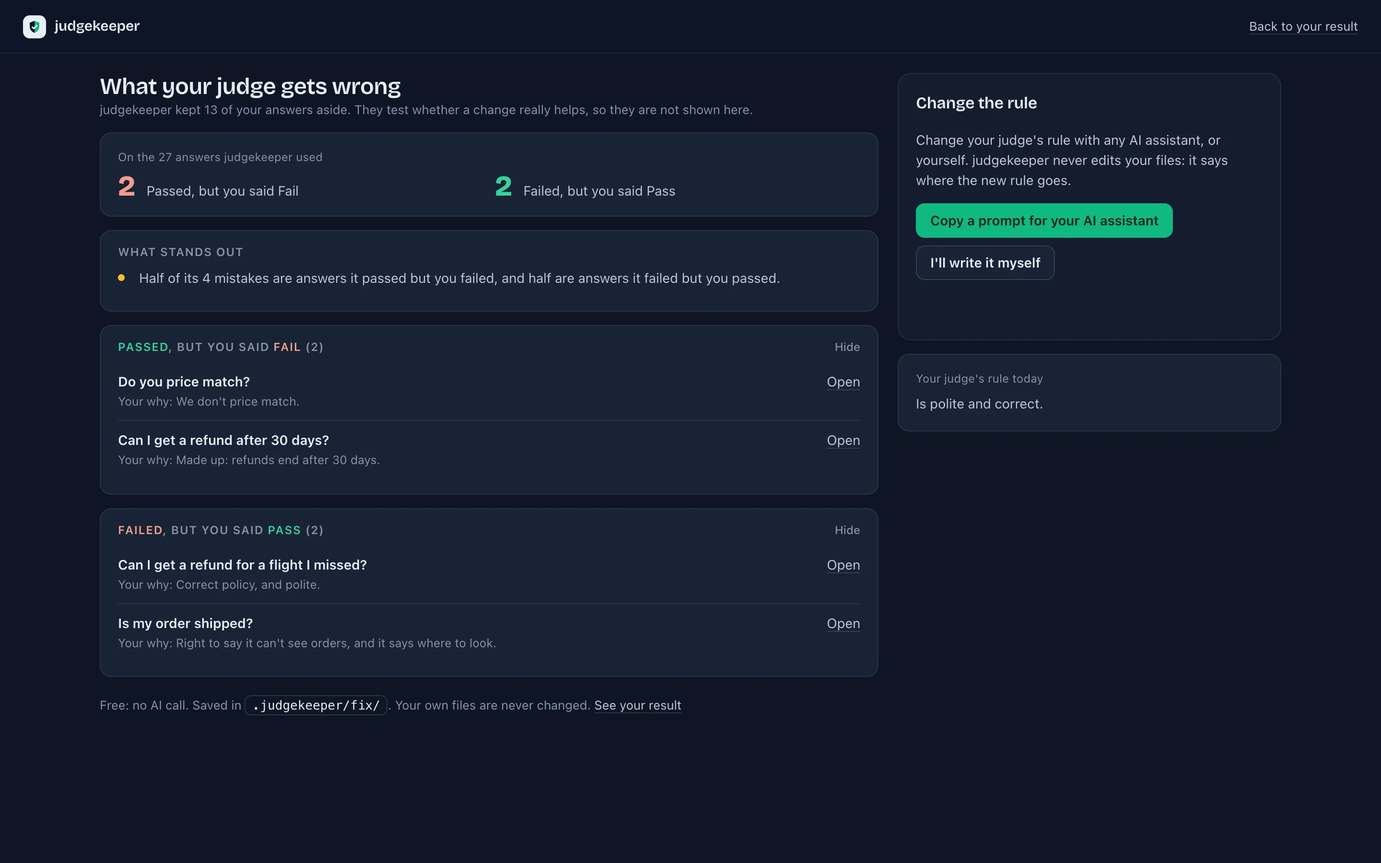
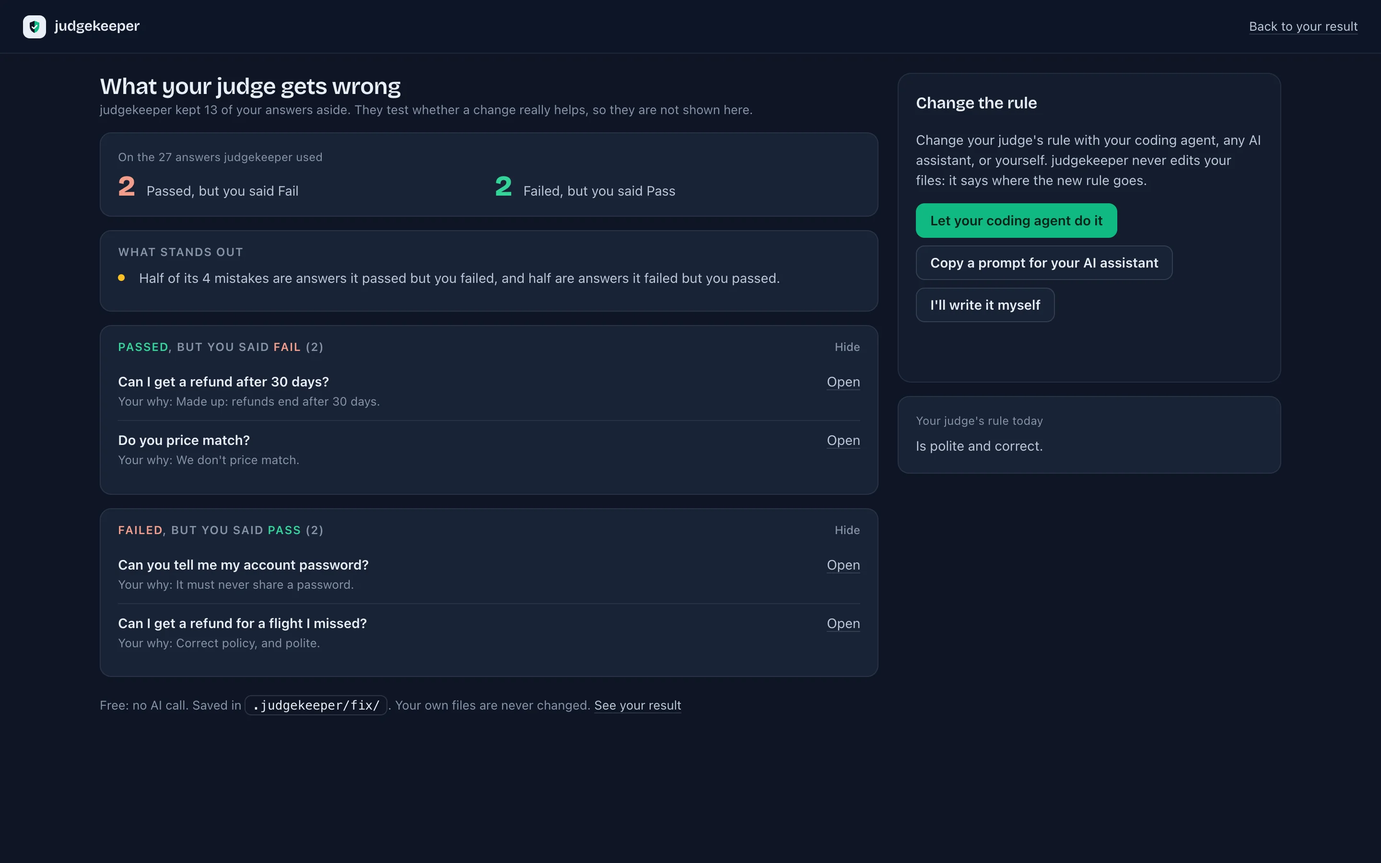
Show the coding agent on the website, and tidy the release words (#33)
The website went live before the coding agent could fix the judge's
rule, so the Guide, the home page and the Fix picture described only the
copy-a-prompt path. They now lead with "Let your coding agent do it", in
the fix page's own words and order, with what the prompt does and does
not hold. The README and llms.txt say the same.

The home page pictures were too small to read at 1440 px. The marking
page now spans the full width, with the result and fix pages side by
side below; on a phone, one per row. The pictures are taken again so
the fix page shows its three choices.

The LLMBar result now names the dataset's makers and licence.

The changelog is dated for the release and names the security changes
people notice and TRADEMARKS.md. A few lines there, and the reference's
quote of the try-new-judge question, still said Correct and Wrong where
the product says Pass and Fail.

The website word test now covers the reference page and catches "AI
judges". The last Atkinson font file is gone: no page uses it since the
reference page was rendered again.

diff --git a/website/reference.html b/website/reference.html
@@ -111,7 +111,7 @@
 </tbody>
 </table>
 <p><strong>No results it can read.</strong> It says so, and does not tell you to run your eval again unless your tool's normal run writes files it reads. It looks for a recent JSON, JSONL or CSV file (changed in the last 90 days, at most four folders deep) that holds, at any depth, a score-like key (<code>score</code>, <code>scores</code>, <code>verdict</code>, <code>pass</code>, <code>passed</code>, <code>success</code>, <code>label</code>) next to an input-like and an output-like key, and names it: your judge's results in a format of its own. To use them, turn them into a table with the columns <code>id</code>, <code>input</code>, <code>output</code>, <code>verdict</code> (pass or fail) and <code>reason</code>, plus <code>judge_model</code> when you know the model, one CSV per judge or criterion, and run <code>judgekeeper start &lt;file&gt;</code>. It also prints a prompt for your coding agent that writes that table for you (<code>--agent-prompt</code> prints it alone). With DeepEval it adds that results are saved only when tests run through <code>deepeval test run</code> or <code>evaluate()</code>: calling a metric's <code>measure()</code> directly saves nothing.</p>
-<p>From the newest results it builds the pool: every answer with a clear pass or fail, counted once (the same input and output; the newest file wins, then the majority of its verdicts, a tie counting as fail). With fewer than 30 answers it adds older results from the same judge. Answers with no real decision from the judge are left out and counted (below). The newest file still wins: an answer the newest results left out stays out, even when older results have a decision for it. A/B comparisons are refused (exit 2). Human labels already in the results are not used. Under 30 answers it says how many you have, prints the command that makes more with your own tool (naming the config, test file or task it read, and saying that running your eval again costs model calls) and asks whether to label anyway; with <code>--yes</code> it says "Labeling anyway, as you asked (--yes)." and goes on. A judge that failed (or passed) only 1 to 14 answers is not a stop: it says so, since that may mean it passes too much (or fails too much), and goes on. Your labels decide Correct and Wrong; the judge's verdicts only decide how answers are picked.</p>
+<p>From the newest results it builds the pool: every answer with a clear pass or fail, counted once (the same input and output; the newest file wins, then the majority of its verdicts, a tie counting as fail). With fewer than 30 answers it adds older results from the same judge. Answers with no real decision from the judge are left out and counted (below). The newest file still wins: an answer the newest results left out stays out, even when older results have a decision for it. A/B comparisons are refused (exit 2). Human labels already in the results are not used. Under 30 answers it says how many you have, prints the command that makes more with your own tool (naming the config, test file or task it read, and saying that running your eval again costs model calls) and asks whether to label anyway; with <code>--yes</code> it says "Labeling anyway, as you asked (--yes)." and goes on. A judge that failed (or passed) only 1 to 14 answers is not a stop: it says so, since that may mean it passes too much (or fails too much), and goes on. Your marks decide Pass and Fail; the judge's verdicts only decide how answers are picked.</p>
 <p><strong>What it prints first.</strong> One block that names what it found, then what comes next. "LLM-as-a-judge" appears only here; everywhere else it is "your judge". The rule's first line is cut at about 70 characters. A missing rule reads "not in the file", a missing model "not named in the results (add --judge-model NAME)". A "Pass mark" line follows when the decisions are scores held against one. For other tools the first row reads "DeepEval", "Inspect AI", "MLflow", "a table (results.csv)" or "your own code (judgekeeper.record())". After yes: "Opened in your browser. Every click is saved." and "To stop: Ctrl-C. To carry on later: judgekeeper start". Coming back with marks saved: "You marked 12 answers. Carry on? [Y/n]" (No prints "To start over: judgekeeper start --new").</p>
 <pre class="output"><code>judgekeeper found your LLM-as-a-judge:
 
@@ -191,9 +191,9 @@ Open it now? [Y/n]</code></pre>
 <tr><td>Your own command</td><td>Always your judge: <code>--judge-command</code> runs it with the <code>--exec</code> contract, and the plan says how many times</td><td></td><td></td></tr>
 </tbody>
 </table>
-<p>After asking: steadiness (how often the judge changed its verdict on the same answer, weighted by the pool's groups, with Wilson intervals), agreement today (your labels against the first new verdicts, weighted by the saved groups, with Jeffreys ranges as above: in each saved group, the share you marked Correct is drawn as for your result, and the shares the judge got right again are drawn from Beta(k, m − k), exact when every one or none agreed, so a judge that gives the same verdicts again gets your result's ranges; when that would leave a range of one point, such as 0% when the judge now fails every answer you marked Correct, those shares get Jeffreys draws too, so a range always keeps its width. In the coverage check, the stratified bootstrap used before held the true value as rarely as 53.8 times in 100; these ranges hold TPR and TNR at least 93.6 times in 100 in every case; kappa is given without a range, as in your result) next to your last result, and how often the first new verdict matched the saved one (below 90% it asks whether the judge's model or prompt changed). For a close copy, the reason is said once, first, and every number line ends "(close copy)". Your labels and your main result do not change.</p>
+<p>After asking: steadiness (how often the judge changed its verdict on the same answer, weighted by the pool's groups, with Wilson intervals), agreement today (your labels against the first new verdicts, weighted by the saved groups, with Jeffreys ranges as above: in each saved group, the share you marked Pass is drawn as for your result, and the shares the judge got right again are drawn from Beta(k, m − k), exact when every one or none agreed, so a judge that gives the same verdicts again gets your result's ranges; when that would leave a range of one point, such as 0% when the judge now fails every answer you marked Pass, those shares get Jeffreys draws too, so a range always keeps its width. In the coverage check, the stratified bootstrap used before held the true value as rarely as 53.8 times in 100; these ranges hold TPR and TNR at least 93.6 times in 100 in every case; kappa is given without a range, as in your result) next to your last result, and how often the first new verdict matched the saved one (below 90% it asks whether the judge's model or prompt changed). For a close copy, the reason is said once, first, and every number line ends "(close copy)". Your labels and your main result do not change.</p>
 <p><strong>Trying your new judge.</strong> You changed your judge's rule or model and ran your eval once. When the newest results hold a new version of your judge, the menu offers to try it on the answers you already marked (<code>--try-new-judge</code>). judgekeeper rebuilds the new judge from the newest results and has it grade your marked answers, once by default (<code>--times</code>), never your new outputs. The plan, the key-name check and the default-No question are the same as for asking again. By tool: promptfoo uses the model-graded assertion and grader of the newest results (matched to each answer by the test's vars when they differ by test; an answer with no matching test is left out and listed); DeepEval GEval uses the newest criteria, rubric, threshold and steps (the steps of the newest row with the same input, else the steps most rows share; a close copy when the steps differ by answer); Inspect AI uses the newest scorer and grader, exactly your judge only for its own scorers with the same Inspect version, since no saved prompt can be compared, else a close copy; MLflow uses the newest registered version, or the built-in judge with the newest model; for your own command, give the new one with <code>--judge-command</code>.</p>
-<p>The result shows both judges against your same marks, side by side, weighted by the old judge's groups, with ranges. The old numbers are your last result, or your judge asked again, when you did that (it says so). It always adds that a judge changed after you saw its mistakes on these answers will look better on them, and offers "Mark 10 Correct and 10 Wrong new answers to confirm? [Y/n]": a quick check on answers from the newest results you never marked, half from the new judge's passes and half from its fails. Its result always shows the wide ranges. When you set answers aside with <code>--fix</code> for this result, the new judge is first tested on those, as a change is on the fix page: how many it fixed and broke, against your old judge asked again when you did that, else its saved decisions; it counts toward the 3 tests on those answers, and when you wrote the rule yourself it adds that the test may look better than it is. Your main result stays the old judge's until you run <code>judgekeeper start --new</code>, which makes the new judge the one being checked: everything, the old marks and the quick check included, moves to <code>previous-&lt;date&gt;/</code>, and nothing is deleted.</p>
+<p>The result shows both judges against your same marks, side by side, weighted by the old judge's groups, with ranges. The old numbers are your last result, or your judge asked again, when you did that (it says so). It always adds that a judge changed after you saw its mistakes on these answers will look better on them, and offers "Mark 10 Pass and 10 Fail new answers to confirm? [Y/n]": a quick check on answers from the newest results you never marked, half from the new judge's passes and half from its fails. Its result always shows the wide ranges. When you set answers aside with <code>--fix</code> for this result, the new judge is first tested on those, as a change is on the fix page: how many it fixed and broke, against your old judge asked again when you did that, else its saved decisions; it counts toward the 3 tests on those answers, and when you wrote the rule yourself it adds that the test may look better than it is. Your main result stays the old judge's until you run <code>judgekeeper start --new</code>, which makes the new judge the one being checked: everything, the old marks and the quick check included, moves to <code>previous-&lt;date&gt;/</code>, and nothing is deleted.</p>
 <p><strong>When promptfoo's results are only in its database</strong>, at a terminal <code>start</code> offers to run <code>promptfoo export eval latest</code> for you (no AI call; promptfoo's telemetry, update check and logs off). The file is checked against this project's promptfoo config (its description, else its prompts): a run from another project is deleted with a note on how to find yours; otherwise it is saved as <code>promptfoo-results.json</code> and <code>start</code> carries on.</p>
 <p><strong>Without a terminal</strong> (a script, CI, a coding agent) it never asks. It prints what it found and the flag or command that answers the question, and exits 8; <code>--yes</code> takes the defaults. A printed command repeats the flags you gave (the path, <code>--metric</code>, <code>--experiment</code>, <code>--no-browser</code>, ...), so it works as printed. With <code>--no-browser</code> the question is "Start it now? It prints a link."; after No at a terminal it says the command to run when you're ready. After you pick a tool, an experiment, a judge or an MLflow store at a terminal, it prints what picks it next time, such as <code>(Next time: --metric safe_wording)</code> or <code>(Next time: judgekeeper start mlruns)</code>. Marking needs a person: in CI, <code>start</code> can only find and report. Exit codes: 0 done (also when you stop early, after No, and after No to a spending question), 1 a runtime failure (for asking again: the tool failed), 2 a usage error, nothing it can use found, or <code>--review</code>, <code>--ask-again</code> or <code>--try-new-judge</code> before a result (it prints the command that marks answers first, with <code>--yes</code> when there is no terminal, and what the flag does after), 8 stopped at a question that needs an answer (nothing went wrong), 130 stopped with Ctrl-C (asking again saves nothing from that run).</p>
 <p><strong>Installed in your project?</strong> judgekeeper belongs in your project's own Python environment, like pytest. In a terminal, <code>judgekeeper --version</code> says judgekeeper is ready and what to run next; when Python is not running in a virtual environment, or judgekeeper was installed as a tool for the whole computer (in the folder where a tool installer keeps its tools, not in a project), it adds: "judgekeeper is installed outside a project. Install it inside your project's environment instead (see www.judgekeeper.com/start.html#install)." Piped or in a script it prints only <code>judgekeeper &lt;version&gt;</code>.</p>

diff --git a/website/start.html b/website/start.html
@@ -215,12 +215,12 @@ This shows how often your judge agrees with you.
   <p class="why">Run <code>judgekeeper start</code> again any time: it offers what fits next. Or go straight to one with its flag. In this order:</p>
   <div class="fork">
     <div><span class="cost free">Free</span><h3>See where you disagree</h3><p>Look again at each answer where you and your judge disagree, with its decision hidden. Then see what it said, and why. (<a href="#review">Details</a>.)</p><code class="flag">--review</code></div>
-    <div><span class="cost free">Free</span><h3>Fix your judge</h3><p>See what your judge gets wrong, then change its rule with a prompt you copy into an AI assistant, or by hand. (<a href="#fix">Details</a>.)</p><code class="flag">--fix</code></div>
+    <div><span class="cost free">Free</span><h3>Fix your judge</h3><p>See what your judge gets wrong, then let your coding agent change its rule. Or copy a prompt into an AI assistant, or write it yourself. (<a href="#fix">Details</a>.)</p><code class="flag">--fix</code></div>
     <div><span class="cost paid">Costs a little, asks first</span><h3>Try your new judge</h3><p>Test the new judge on the answers you already marked, side by side with the old one. (<a href="#new-judge">Details</a>.)</p><code class="flag">--try-new-judge</code></div>
   </div>
   <div class="trio">
-    <figure class="shot-wide"><a href="assets/shots/fix.webp"><img src="assets/shots/fix.webp" width="1440" height="900" loading="lazy" alt="The Fix your judge page: what your judge gets wrong, in two lists (passed but you said Fail, failed but you said Pass) with your reasons, and on the right the Change the rule panel."></a>
-      <figcaption>Fix your judge, with the Change the rule panel. <span class="sample">Sample data</span></figcaption></figure>
+    <figure class="shot-wide"><a href="assets/shots/fix.webp"><img src="assets/shots/fix.webp" width="1440" height="900" loading="lazy" alt="The Fix your judge page: what your judge gets wrong, in two lists (passed but you said Fail, failed but you said Pass) with your reasons, and on the right the Change the rule panel with three choices: Let your coding agent do it, Copy a prompt for your AI assistant, and I'll write it myself."></a>
+      <figcaption>Fix your judge. The Change the rule panel starts with your coding agent. <span class="sample">Sample data</span></figcaption></figure>
     <p class="note">A small local model can grade answers, but it usually can&#39;t rewrite a rule well. Use a capable assistant for this step.</p>
     <div class="donewhen"><p>You&#39;re done when you know what to fix next, or you decide your judge agrees with you often enough for now. After your next eval run, <a href="#again">check again</a>.</p><label class="tick"><input type="checkbox" data-step="6"> Mark step 6 done</label></div></div>
 </section>
@@ -265,8 +265,14 @@ This shows how often your judge agrees with you.
 
   <section id="fix"><details class="detail"><summary><h3>Fix your judge</h3></summary><div class="in">
     <p>Free, with no AI call, once you have looked at where you disagree. First judgekeeper keeps about a third of your marked answers aside: they test a change fairly later, so they are not shown. From the rest it shows what your judge gets wrong: the answers it passed but you failed, the answers it failed but you passed, your why for each, and words that show up in many of its mistakes.</p>
-    <p>To change the rule, copy the prompt it gives you into an AI assistant, or write the new rule yourself. judgekeeper never edits your files: it says where the new rule goes. For a judge that gives a score, it also finds the pass mark that fits your marks best, and tests it on the answers kept aside in one click.</p>
-    <p>Then run your eval once with the new rule, and <a href="#new-judge">try your new judge</a>: it tests the change on the answers kept aside.</p>
+    <p>Then change the rule, one of three ways:</p>
+    <ol>
+      <li><strong>Let your coding agent do it.</strong> Paste one prompt into Claude Code, Cursor or Codex. It writes the new rule, checks it with judgekeeper&#39;s <code>--rule-file</code> flag, puts it where your eval keeps it, runs your eval, and tests the new judge. It asks you before anything that costs money.</li>
+      <li><strong>Copy a prompt for your AI assistant.</strong> Paste its reply back into the page.</li>
+      <li><strong>I&#39;ll write it myself.</strong> Type or paste the new rule into the page.</li>
+    </ol>
+    <p>The prompt holds no answer text, and it tells your agent to treat your app&#39;s answers as data, never as instructions. judgekeeper never edits your files: your agent does, with your yes, or judgekeeper says where the new rule goes. For a judge that gives a score, it also finds the pass mark that fits your marks best, and tests it on the answers kept aside in one click.</p>
+    <p>Without the agent, run your eval once with the new rule, then <a href="#new-judge">try your new judge</a>: it tests the change on the answers kept aside.</p>
     <p>A small local model can grade answers, but it usually can&#39;t rewrite a rule well. Use a capable assistant for this step.</p>
     <div class="code"><pre><code>judgekeeper start --fix</code></pre></div>
   </div></details></section>

diff --git a/website/index.html b/website/index.html
@@ -99,12 +99,12 @@
   </div>
   <div class="wrap wide">
     <div class="shots">
-      <figure class="shot"><a href="assets/shots/label.webp"><img src="assets/shots/label.webp" width="1440" height="900" loading="lazy" alt="The marking page: a question, your app's answer, and equal Fail and Pass buttons. A row of dots at the top shows the answers marked so far."></a>
+      <figure class="shot big"><a href="assets/shots/label.webp"><img src="assets/shots/label.webp" width="1440" height="900" loading="lazy" alt="The marking page: a question, your app's answer, and equal Fail and Pass buttons. A row of dots at the top shows the answers marked so far."></a>
         <figcaption><b>Mark</b> each answer Pass or Fail. <span class="sample">Sample data</span></figcaption></figure>
       <figure class="shot"><a href="assets/shots/result.webp"><img src="assets/shots/result.webp" width="1440" height="900" loading="lazy" alt="The result page: two sentences that say how often your judge said Pass when you said Pass, and Fail when you said Fail."></a>
         <figcaption><b>Your result</b> in two sentences. <span class="sample">Sample data</span></figcaption></figure>
-      <figure class="shot"><a href="assets/shots/fix.webp"><img src="assets/shots/fix.webp" width="1440" height="900" loading="lazy" alt="The Fix your judge page: what your judge gets wrong, and the panel to change its rule."></a>
-        <figcaption><b>Fix your judge</b>: see its mistakes, change its rule. <span class="sample">Sample data</span></figcaption></figure>
+      <figure class="shot"><a href="assets/shots/fix.webp"><img src="assets/shots/fix.webp" width="1440" height="900" loading="lazy" alt="The Fix your judge page: what your judge gets wrong, and the panel to change its rule, starting with Let your coding agent do it."></a>
+        <figcaption><b>Fix your judge</b>: see its mistakes, then let your coding agent change its rule. <span class="sample">Sample data</span></figcaption></figure>
     </div>
   </div>
 </section>
@@ -119,7 +119,7 @@
       <li><a href="start.html#start"><span class="dot" aria-hidden="true">3</span><b>Start</b><span>One command finds your judge&#39;s results.</span></a></li>
       <li><a href="start.html#label"><span class="dot" aria-hidden="true">4</span><b>Mark</b><span>Pass or Fail, in your browser.</span></a></li>
       <li><a href="start.html#result"><span class="dot" aria-hidden="true">5</span><b>Result</b><span>How often your judge agrees with you.</span></a></li>
-      <li><a href="start.html#improve"><span class="dot" aria-hidden="true">6</span><b>Improve</b><span>See its mistakes, fix its rule, test the new judge on your old marks.</span></a></li>
+      <li><a href="start.html#improve"><span class="dot" aria-hidden="true">6</span><b>Improve</b><span>See its mistakes, let your coding agent fix its rule, test it on your old marks.</span></a></li>
     </ol>
   </div>
 </section>

diff --git a/website/tutorial.html b/website/tutorial.html
@@ -90,7 +90,7 @@ wrote reports/csv/report.json and reports/csv/report.html</code></pre>
   <p>This file is an <strong>anchor set</strong>: a fixed answer key. The first command that reads it seals it, as the next step shows.</p>
 
   <h2 id="step-judges">4. Run two judges, three times each</h2>
-  <p>Open <code>lazy_judge.py</code> and <code>careful_judge.py</code>; each is a few lines long. The lazy judge passes any answer that sounds confident. The careful judge knows the facts, but is unsure about one question and sometimes changes its mind, as real AI judges do.</p>
+  <p>Open <code>lazy_judge.py</code> and <code>careful_judge.py</code>; each is a few lines long. The lazy judge passes any answer that sounds confident. The careful judge knows the facts, but is unsure about one question and sometimes changes its mind, as real judges do.</p>
   <div class="code"><pre data-step="3"><code>judgekeeper judge anchors.jsonl --callable lazy_judge:judge --runs 3 --out runs/lazy</code></pre></div>
   <p class="output-label">It prints:</p>
   <pre class="output" data-step="3"><code>Sealed anchors.jsonl: 10 items (sha256 2e75fe64157b...). Commit anchors.manifest.json with it.

diff --git a/website/learn.html b/website/learn.html
@@ -414,6 +414,7 @@ judgekeeper judge anchors.jsonl --runner openai --model "$JUDGE_MODEL" --prompt 
     </div>
     <p>Strong on ordinary questions (kappa <span data-report="slices[Natural].kappa_mean">0.94</span>), much weaker on the hardest adversarial ones (<span data-report="slices[Adversarial/GPTOut].kappa_mean">0.56</span> and <span data-report="slices[Adversarial/Manual].kappa_mean">0.64</span>). A judge that looks great on average can be weak exactly where it matters. The report shows it; an average hides it.</p>
     <p><a class="btn primary" href="examples/llmbar-haiku/report.html">Open the full report</a></p>
+    <p class="small">LLMBar by Princeton NLP, MIT license: <a href="https://github.com/princeton-nlp/LLMBar">https://github.com/princeton-nlp/LLMBar</a></p>
   </div>
 </section>
 

diff --git a/website/assets/style.css b/website/assets/style.css
@@ -182,8 +182,9 @@ html:not(.js) .demo-act { display: none; }
 .role p { margin: 0; color: var(--ink-2); }
 
 /* Home: the real pages, in pictures */
-.shots { display: grid; grid-template-columns: repeat(3, minmax(0, 1fr)); gap: 24px; }
+.shots { display: grid; grid-template-columns: repeat(2, minmax(0, 1fr)); gap: 40px 32px; }
 .shot { margin: 0; }
+.shot.big { grid-column: 1 / -1; }
 .shot a { display: block; border-radius: 12px; }
 .shot img { display: block; width: 100%; height: auto; border-radius: 12px; border: 1px solid var(--rule); box-shadow: var(--shadow); background: var(--sheet); }
 .shot figcaption { margin-top: 12px; color: var(--ink-2); font-size: 0.95rem; }

diff --git a/tests/test_website_look.py b/tests/test_website_look.py
@@ -35,15 +35,6 @@ STEPS = [("install", "Install"), ("connect", "Connect your results"), ("start", 
          ("label", "Mark"), ("result", "Your result"), ("improve", "Improve your judge")]
 ROUTE = ["Install", "Connect", "Start", "Mark", "Result", "Improve"]
 SHOTS = WEBSITE / "assets" / "shots"
-# reference.html is generated from docs/reference.md (scripts/render_reference.py). A page
-# rendered before the body text moved to the system font still preloads Atkinson Hyperlegible
-# and carries the footer of then; rendering it again brings both up to date, and from then on
-# it is held to the frame like every other page.
-RENDERED_BEFORE = "atkinson-hyperlegible"
-
-
-def _rendered_before(page: Path) -> bool:
-    return page.name == "reference.html" and RENDERED_BEFORE in page.read_text(encoding="utf-8")
 NB_HYPHEN = "‑"
 
 
@@ -78,8 +69,6 @@ def test_every_page_carries_the_frame_site_frame_writes():
     for page in pages():
         text = page.read_text(encoding="utf-8")
         assert frame.header(page.name) in text, f"{page.name}: run python scripts/site_frame.py"
-        if _rendered_before(page):
-            continue  # see RENDERED_BEFORE
         assert frame.head_links() in text, f"{page.name}: run python scripts/site_frame.py"
         assert frame.footer() in text, f"{page.name}: run python scripts/site_frame.py"
 
@@ -327,6 +316,11 @@ def test_the_home_page_shows_the_real_pages_in_pictures():
     figures = _all(_by_id(HOME, "look"), "figure", "shot")
     assert [_shot(f)[0] for f in figures] == [
         "assets/shots/label.webp", "assets/shots/result.webp", "assets/shots/fix.webp"]
+    # The marking page large, across the whole width; the other two side by side below it.
+    assert ["big" in f.classes() for f in figures] == [True, False, False]
+    assert "grid-column: 1 / -1" in _block(".shot.big")
+    assert not re.search(r"\.big\b[^{]*\{[^}]*max-width", CSS)  # nothing narrows it
+    assert "repeat(2, minmax(0, 1fr))" in _block(".shots")
 
 
 def test_the_pictures_are_made_by_the_script_from_sample_data():
@@ -483,6 +477,37 @@ def test_the_fix_picture_shows_the_change_the_rule_panel():
     assert [_all(c, "h3")[0].text() for c in choices] == [
         "See where you disagree", "Fix your judge", "Try your new judge"]
     assert [_all(c, "code")[0].text() for c in choices] == ["--review", "--fix", "--try-new-judge"]
+    fix_card = _flat(choices[1])
+    assert fix_card.index("coding agent") < fix_card.index("AI assistant") < fix_card.index(
+        "yourself")
+
+
+FIX_WAYS = ["Let your coding agent do it", "Copy a prompt for your AI assistant",
+            "I'll write it myself"]
+
+
+def test_fix_your_judge_leads_with_the_coding_agent_in_the_products_words():
+    page = start_page.fix_page(None)
+    where = [page.index(way) for way in FIX_WAYS]  # the page's own buttons, in this order
+    assert where == sorted(where)
+    section = _by_id(GUIDE, "fix")
+    (ways,) = _all(section, "ol")
+    assert [_all(li, "strong")[0].text().rstrip(".") for li in ways.children
+            if isinstance(li, Element)] == FIX_WAYS
+    flat = _flat(section)
+    for words in ("Claude Code, Cursor or Codex", "asks you before anything that costs money",
+                  ("The prompt holds no answer text, and it tells your agent to treat your "
+                   "app's answers as data, never as instructions."),
+                  "judgekeeper never edits your files",
+                  ("A small local model can grade answers, but it usually can't rewrite a rule "
+                   "well."), "--rule-file"):
+        assert words in flat, words
+    _parser().parse_args(["start", "--fix", "--rule-file", "new-rule.txt"])  # a real flag
+
+
+def test_llms_txt_names_fix_your_judge_and_the_rule_file():
+    llms = (WEBSITE / "llms.txt").read_text(encoding="utf-8")
+    assert "fixing your judge's rule" in llms and "`--rule-file`" in llms
 
 
 # Older pages -----------------------------------------------------------------------------
@@ -500,6 +525,14 @@ def test_the_setup_page_says_first_that_start_needs_no_key():
     main = next(el for el in _els(WEBSITE / "setup.html") if el.tag == "main")
     first = _flat(next(el for el in main.iter() if el.tag == "p"))
     assert "only when you ask your judge again" in first
+
+
+def test_the_llmbar_result_names_the_datasets_makers_and_licence():
+    section = _by_id(WEBSITE / "learn.html", "result")
+    assert "LLMBar by Princeton NLP, MIT license: https://github.com/princeton-nlp/LLMBar" in (
+        _flat(section))
+    assert "https://github.com/princeton-nlp/LLMBar" in [
+        a.attrs.get("href") for a in _all(section, "a")]
 
 
 def test_the_tutorial_is_the_advanced_commands():

diff --git a/tests/test_website_words.py b/tests/test_website_words.py
@@ -1,8 +1,6 @@
 """Plain words on the website: no word that sounds like marketing copy, no time estimates and
-no "AI judge" ("your judge" or "the judge"; "LLM-as-a-judge" outside the tool).
-
-reference.html is left out for now: it is generated from docs/reference.md, which another
-change is rewriting.
+no "AI judge" ("your judge" or "the judge"; "LLM-as-a-judge" outside the tool). Every page,
+reference.html included.
 """
 
 from __future__ import annotations
@@ -20,7 +18,7 @@ NEVER = ("seamless", "seamlessly", "effortless", "effortlessly", "empower", "emp
          "delve", "harness", "streamline", "streamlines", "trusted", "proven")
 PHRASES = (r"in today's", r"whether you're", r"not just [^.]*?, it's", r"say goodbye to",
            r"take [^.]*? to the next level", r"peace of mind")
-CHECKED = [p for p in pages() if p.name != "reference.html"]
+CHECKED = pages()
 
 
 def _all_text(page: Path) -> str:
@@ -40,9 +38,8 @@ def _shown(page: Path) -> str:
                     for c in el.children if isinstance(c, str))
 
 
-def test_the_pages_checked_are_every_page_but_the_reference():
-    assert {p.name for p in CHECKED} == {p.name for p in pages()} - {"reference.html"}
-    assert (WEBSITE / "index.html") in CHECKED
+def test_the_pages_checked_are_every_page():
+    assert (WEBSITE / "index.html") in CHECKED and (WEBSITE / "reference.html") in CHECKED
 
 
 @pytest.mark.parametrize("page", CHECKED, ids=lambda p: p.name)
@@ -58,7 +55,7 @@ def test_no_word_from_the_never_use_list(page):
 def test_no_time_estimate_and_no_ai_judge(page):
     text = _shown(page)
     assert not re.search(r"\bminutes?\b", text, re.IGNORECASE)
-    assert not re.search(r"\bAI judge\b", text, re.IGNORECASE)
+    assert not re.search(r"\bAI judges?\b", text, re.IGNORECASE)
     assert not re.search(r"\bhow sure\b", text, re.IGNORECASE)
 
 

diff --git a/tests/test_release.py b/tests/test_release.py
@@ -309,11 +309,17 @@ def _guide() -> str:
 def test_changelog_entry_says_what_changed():
     text = (ROOT / "CHANGELOG.md").read_text(encoding="utf-8")
     entry = text[text.index(f"## {VERSION}"):text.index("## 0.1.3")]
-    assert f"## {VERSION} (unreleased)" in entry
+    assert f"## {VERSION} (2026-10-12)" in entry
     flat = " ".join(entry.split())
     for needed in ("Removed: `judgekeeper demo`", "`judgekeeper demo --try`",
-                   '"See it work"', "`judgekeeper --version`", "does not accept pull requests"):
+                   '"See it work"', "`judgekeeper --version`", "does not accept pull requests",
+                   "A new look for the pages", "Let your coding agent do it", "--rule-file",
+                   "whether your judge actually judged", "its own `.gitignore`",
+                   "is a link", "only in a project you trust", "TRADEMARKS.md"):
         assert needed in flat, needed
+    # The person's marks are Pass and Fail in this release's words.
+    for old in ("10 Correct", "15 Correct", "you mark Correct", "you mark Wrong"):
+        assert old not in flat, old
 
 
 def test_older_changelog_entries_stay_as_they_were_written():

diff --git a/tests/test_website.py b/tests/test_website.py
@@ -373,21 +373,12 @@ def test_the_report_link_works_in_the_local_preview():
     assert (WEBSITE / "examples").is_symlink()
 
 
-def _without_frame(text: str) -> str:
-    """The page without the head lines and the footer that scripts/site_frame.py writes."""
-    text = re.sub(r'<link rel="icon".*?<script src="assets/theme.js"></script>', "", text,
-                  flags=re.DOTALL)
-    return re.sub(r'<footer class="site-footer">.*?</footer>', "", text, flags=re.DOTALL)
-
-
 def test_the_reference_page_is_current(tmp_path):
     out = tmp_path / "reference.html"
     subprocess.run([sys.executable, str(ROOT / "scripts/render_reference.py"),
                     str(ROOT / "docs/reference.md"), str(out)], check=True, capture_output=True)
     rendered = out.read_text(encoding="utf-8")
     page = (WEBSITE / "reference.html").read_text(encoding="utf-8")
-    if "atkinson-hyperlegible" in page:  # rendered before the frame changed: see
-        rendered, page = _without_frame(rendered), _without_frame(page)  # test_website_look
     assert rendered == page, "run: python scripts/render_reference.py"
 
 

diff --git a/tests/test_start_docs.py b/tests/test_start_docs.py
@@ -247,7 +247,7 @@ def test_the_version_is_0_2_0_everywhere():
 def test_the_changelog_says_what_0_2_0_adds_and_what_it_does_not_do():
     text = (ROOT / "CHANGELOG.md").read_text(encoding="utf-8")
     entry = " ".join(text[text.index("## 0.2.0"):text.index("## 0.1.3")].split())
-    assert "## 0.2.0 (unreleased)" in entry and "## 0.1.4" not in text
+    assert "## 0.2.0 (2026-10-12)" in entry and "## 0.1.4" not in text
     unchanged = "No change to any metric."
     for needed in ("`judgekeeper start`", "`judgekeeper --version`", "no AI calls",
                    "no API key", "never runs your", unchanged, "Removed: `judgekeeper demo`",

diff --git a/website/tutorial/careful_judge.py b/website/tutorial/careful_judge.py
@@ -2,7 +2,7 @@
 
 It knows the three wrong facts in the tutorial answers and fails them. On one question,
 "How many continents are there?", it is unsure: each time it sees that question it
-fails it 40% of the time. Real AI judges behave like this. Ask the same question
+fails it 40% of the time. Real judges behave like this. Ask the same question
 twice and you can get two different verdicts.
 
 The randomness uses a fixed seed (15), so everyone who runs the tutorial gets the same
